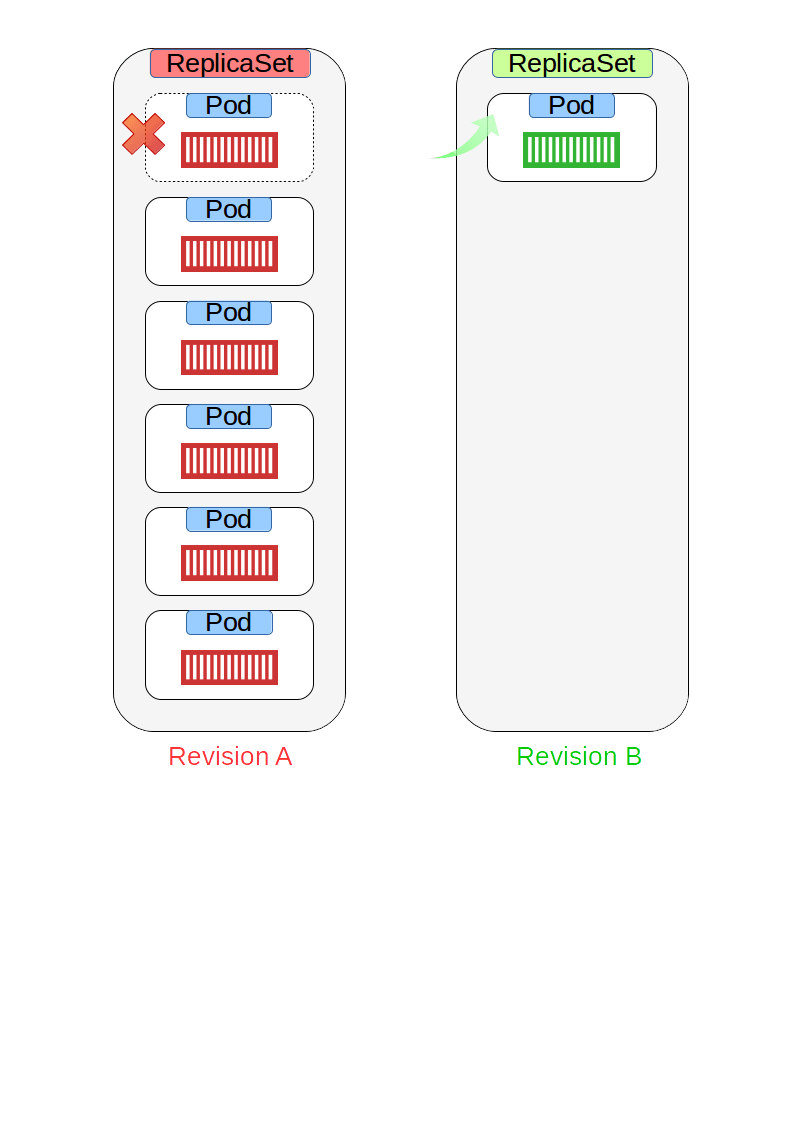
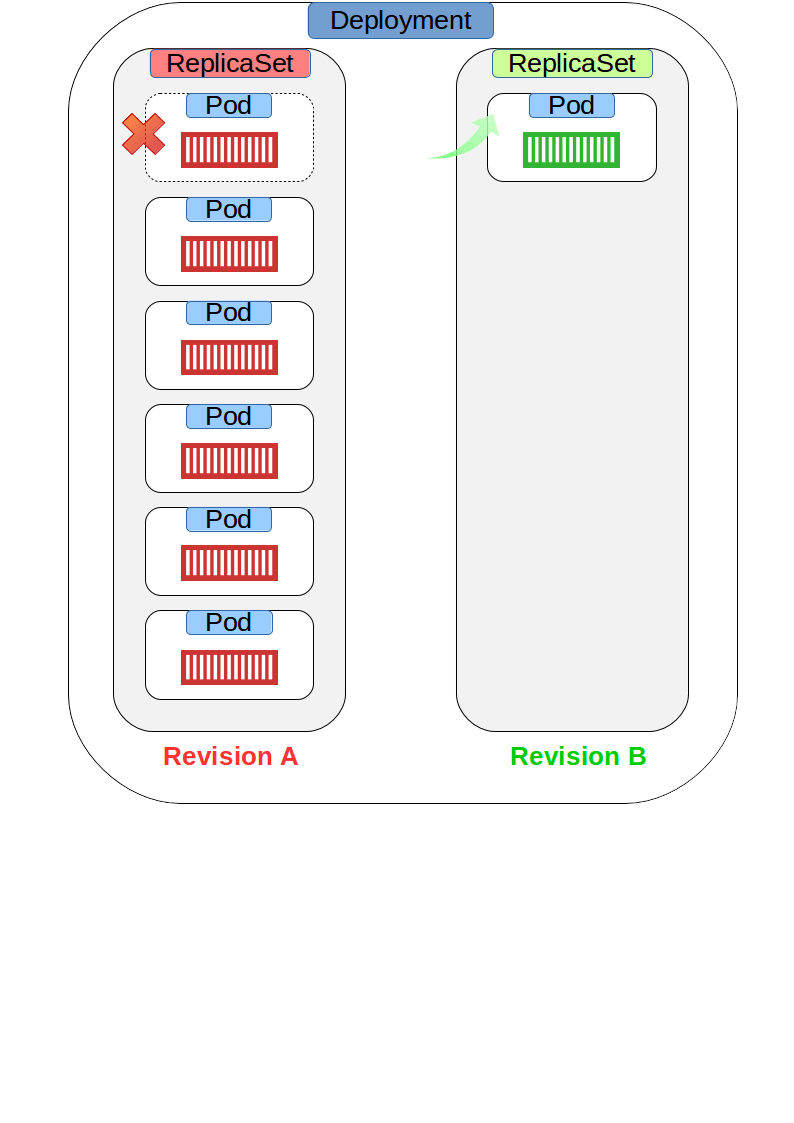
Squashed commit of the following:
commit fdfab09e14acf6d4562ffa88590fadc5d05353c1
Author: Matthias Goerens <matthias.goerens@cloudandheat.com>
Date:   Thu Jun 14 11:10:20 2018 +0200

    depl

commit 012f0a1c08ee5d97d71dbae5d938214500b2492f
Author: Matthias Goerens <matthias.goerens@cloudandheat.com>
Date:   Thu Jun 14 11:09:39 2018 +0200

    ref

commit 34de2454d80ed7d381fed7f5ae81bac3231c2688
Author: Matthias Goerens <matthias.goerens@cloudandheat.com>
Date:   Thu Jun 14 10:49:10 2018 +0200

    benefits

commit b2722151640923fd9d62300e2f61abd26b687d2b
Author: Matthias Goerens <matthias.goerens@cloudandheat.com>
Date:   Thu Jun 14 10:47:38 2018 +0200

    Rolling Updates4

commit 50a777f38eb62c82f818a8ec33257baf9080a4ef
Author: Matthias Goerens <matthias.goerens@cloudandheat.com>
Date:   Thu Jun 14 10:46:46 2018 +0200

    Rolling Updates3

commit 51eaa3f7670f79bb9c74ab69dfb33d5b76dadea7
Author: Matthias Goerens <matthias.goerens@cloudandheat.com>
Date:   Thu Jun 14 10:44:10 2018 +0200

    add RU

commit 350abc590d6d29121fd7af2bf4e27bc4004fd387
Author: Matthias Goerens <matthias.goerens@cloudandheat.com>
Date:   Thu Jun 14 10:43:26 2018 +0200

    Rolling Updates2

commit 87c07a3863c194629d77e71eb9382b71fb648f7c
Author: Matthias Goerens <matthias.goerens@cloudandheat.com>
Date:   Thu Jun 14 10:35:51 2018 +0200

    Rolling Updates

commit c70d90c431b84d478f947216664b68bdd3e25b37
Author: Matthias Goerens <matthias.goerens@cloudandheat.com>
Date:   Thu Jun 14 10:27:57 2018 +0200
[…]

Changed region(s): [[0.3627, 0.0, 0.6348, 0.0623], [0.6348, 0.6545, 0.8161, 0.6857], [0.2116, 0.6545, 0.3929, 0.6857]]

diff --git a/2018/hassle-free-kubernetes-on-openstack/PITCHME.md b/2018/hassle-free-kubernetes-on-openstack/PITCHME.md
@@ -209,7 +209,7 @@ Note:
 <div class="columns">
 	<div>
 - The atomic unit of deployment
-- A fenced environment in which is ran a container
+- A fenced environment in which is run a container
 	</div>
 	<div>
 ![Pod](2018/hassle-free-kubernetes-on-openstack/img/Pod.png)
@@ -233,7 +233,33 @@ Note:
 <div class="columns">
 	<div>
 - The atomic unit of deployment
-- A fenced environment in which is ran a container
+- A fenced environment in which is run a container
+- The minimum unit of scaling
+	</div>
+	<div>
+![Scaling](2018/hassle-free-kubernetes-on-openstack/img/Scaling.png)
+	</div>
+</div>
+<!-- .slide: data-background-transition="none" -->
+<!-- .slide: data-transition="fade" -->
+
+Note:
+
+- Atomic unit of deployment in VMware / KVM / Hyper-V : VM
+- Atomic unit of deployment in Docker : Container
+- You don't run a container directly on a k8s cluster, you need to run it inside a Pod.
+- A Pod is a shared execution environment for one or more containers : they share a hostname, IP address, memory address space, sockets, volumes, ...
+- You do not scale by adding more of the same container to an existing Pod, but by adding more copy of your Pod.
+- Pods are cattle. If they die unexpectedly, we don't bother trying to bring them back to life. We just start a fresh new Pod (new ID, new IP address)
+
++++
+
+### Major components - Pods
+
+<div class="columns">
+	<div>
+- The atomic unit of deployment
+- A fenced environment in which is run a container
 - The minimum unit of scaling
 - Pods are mortal
 	</div>
@@ -320,8 +346,7 @@ Note:
 
 ### Major components - Services
 
-- Provide a reliable networking endpoint for a set of Pods
-- Provide stable DNS, IP addresses, and support TCP and UDP
+- Provide a reliable networking endpoint for a set of Pods : stable DNS and IP addresses
 - Perform simple randomized load-balancing across Pods
 - Automatically updates itself when Pods come and go
 
@@ -338,9 +363,13 @@ Note:
 <div>
 ![Service](2018/hassle-free-kubernetes-on-openstack/img/Service.png)
 </div>
-
 <!-- .slide: data-background-transition="none" -->
 <!-- .slide: data-transition="fade" -->
+
+Note:
+- Pods IP are unreliable
+- A Service gets its own **stable** IP address, DNS name, and port
+- It **dynamically** gets associated with a set of Pod using *labels*
 
 +++
 
@@ -348,10 +377,13 @@ Note:
 
 
 ![Service2](2018/hassle-free-kubernetes-on-openstack/img/Service2.png)
-
-
 <!-- .slide: data-background-transition="none" -->
 <!-- .slide: data-transition="fade" -->
+
+Note:
+- Pods IP are unreliable
+- A Service gets its own **stable** IP address, DNS name, and port
+- It **dynamically** gets associated with a set of Pod using *labels*
 
 ---
 
@@ -360,18 +392,18 @@ Note:
 - Come on top of ReplicaSets, manage their lifecycle
 - Add rolling updates and simple rollbacks
 
+Note:
+- Update Manifest file to a launch Rolling Update
+- One single command
+
 ---
 
 ### Rolling Updates
 <div class="columns">
 	<div>
-![RollingUpdate1](2018/hassle-free-kubernetes-on-openstack/img/RollingUpdate1.png)
+![RollingUpdate0](2018/hassle-free-kubernetes-on-openstack/img/RollingUpdate0.png)
 	</div>
 	<div style='width: 65%'>
-- One single command to perform a Rolling Update
-- One single command to perform a Rollback
-- Minimum number of *Pods* available
-- Amount of time to wait between to iteration
 	</div>
 </div>
 <!-- .slide: data-background-transition="none" -->
@@ -381,6 +413,49 @@ Note:
 - *Deployment* creates a new *ReplicaSet* for the next revision
 - *Pods* are deleted one by one on the old *ReplicaSet*
 - New *Pods* with the new version of the application are created on the new *ReplicaSet*
+- No Downtime
+
++++
+
+### Rolling Updates
+<div class="columns">
+	<div>
+![RollingUpdate0b](2018/hassle-free-kubernetes-on-openstack/img/RollingUpdate0b.png)
+	</div>
+	<div style='width: 65%'>
+- Creation of a new *ReplicaSet* for the next revision
+	</div>
+</div>
+<!-- .slide: data-background-transition="none" -->
+<!-- .slide: data-transition="fade" -->
+
+Note:
+- *Deployment* creates a new *ReplicaSet* for the next revision
+- *Pods* are deleted one by one on the old *ReplicaSet*
+- New *Pods* with the new version of the application are created on the new *ReplicaSet*
+- No Downtime
+
++++
+
+### Rolling Updates
+<div class="columns">
+	<div>
+![RollingUpdate1](2018/hassle-free-kubernetes-on-openstack/img/RollingUpdate1.png)
+	</div>
+	<div style='width: 65%'>
+- Creation of a new *ReplicaSet* for the next revision
+- *Pods* with <span style="color:red">Revision A</span> are deleted
+- New *Pods* with <span style="color:green">Revision B</span> are created
+	</div>
+</div>
+<!-- .slide: data-background-transition="none" -->
+<!-- .slide: data-transition="fade" -->
+
+Note:
+- *Deployment* creates a new *ReplicaSet* for the next revision
+- *Pods* are deleted one by one on the old *ReplicaSet*
+- New *Pods* with the new version of the application are created on the new *ReplicaSet*
+- No Downtime
 
 +++
 
@@ -390,10 +465,10 @@ Note:
 ![RollingUpdate2](2018/hassle-free-kubernetes-on-openstack/img/RollingUpdate2.png)
 	</div>
 	<div style='width: 65%'>
-- One single command to perform a Rolling Update
-- One single command to perform a Rollback
-- Minimum number of *Pods* available
-- Amount of time to wait between to iteration
+- Creation of a new *ReplicaSet* for the next revision
+- *Pods* with <span style="color:red">Revision A</span> are deleted
+- New *Pods* with <span style="color:green">Revision B</span> are created
+- No downtime
 	</div>
 </div>
 <!-- .slide: data-background-transition="none" -->
@@ -403,6 +478,7 @@ Note:
 - *Deployment* creates a new *ReplicaSet* for the next revision
 - *Pods* are deleted one by one on the old *ReplicaSet*
 - New *Pods* with the new version of the application are created on the new *ReplicaSet*
+- No Downtime
 
 +++
 
@@ -412,10 +488,11 @@ Note:
 ![RollingUpdate3](2018/hassle-free-kubernetes-on-openstack/img/RollingUpdate3.png)
 	</div>
 	<div style='width: 65%'>
-- One single command to perform a Rolling Update
-- One single command to perform a Rollback
-- Minimum number of *Pods* available
-- Amount of time to wait between to iteration
+- Creation of a new *ReplicaSet* for the next revision
+- *Pods* with <span style="color:red">Revision A</span> are deleted
+- New *Pods* with <span style="color:green">Revision B</span> are created
+- No downtime
+- Fast Rollbacks
 	</div>
 </div>
 <!-- .slide: data-background-transition="none" -->
@@ -425,6 +502,7 @@ Note:
 - *Deployment* creates a new *ReplicaSet* for the next revision
 - *Pods* are deleted one by one on the old *ReplicaSet*
 - New *Pods* with the new version of the application are created on the new *ReplicaSet*
+- No Downtime
 
 ---
 
@@ -448,6 +526,7 @@ Note:
 - start test environments within seconds
 - fast rollbacks
 - takes care of availability
+- But : complexity of deployment
 
 ---
 
@@ -484,6 +563,7 @@ Note:
 
 - The Kubernetes Book by Nigel Poulton
 - PWK : https://labs.play-with-k8s.com/
+- https://kubernetes.io/
 
 ---
 
